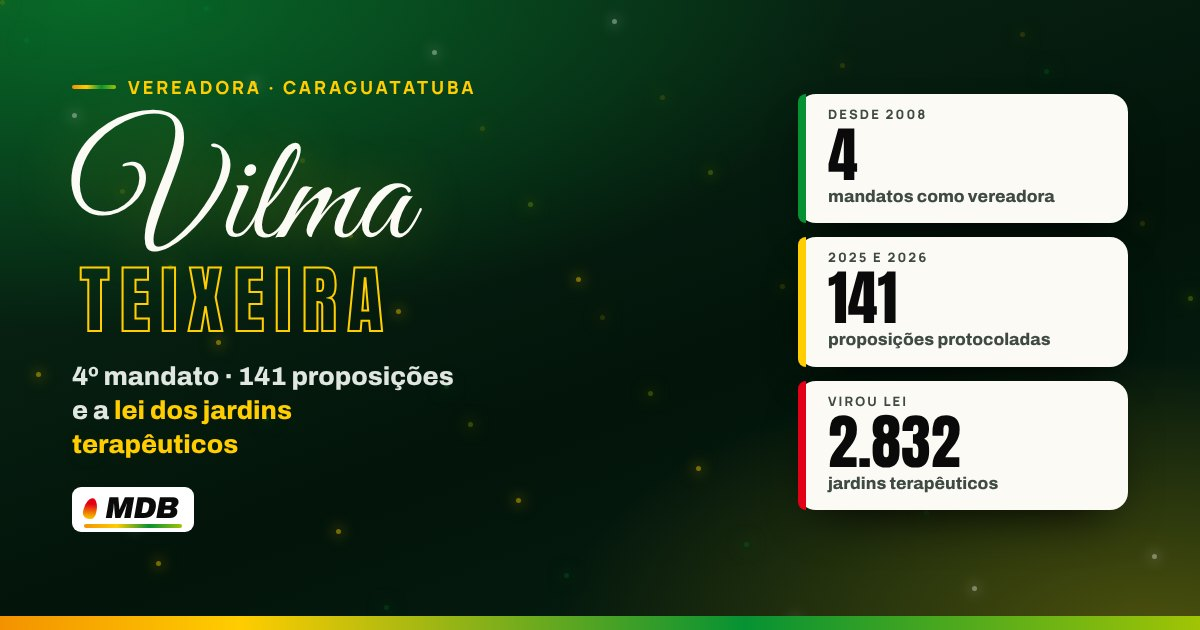
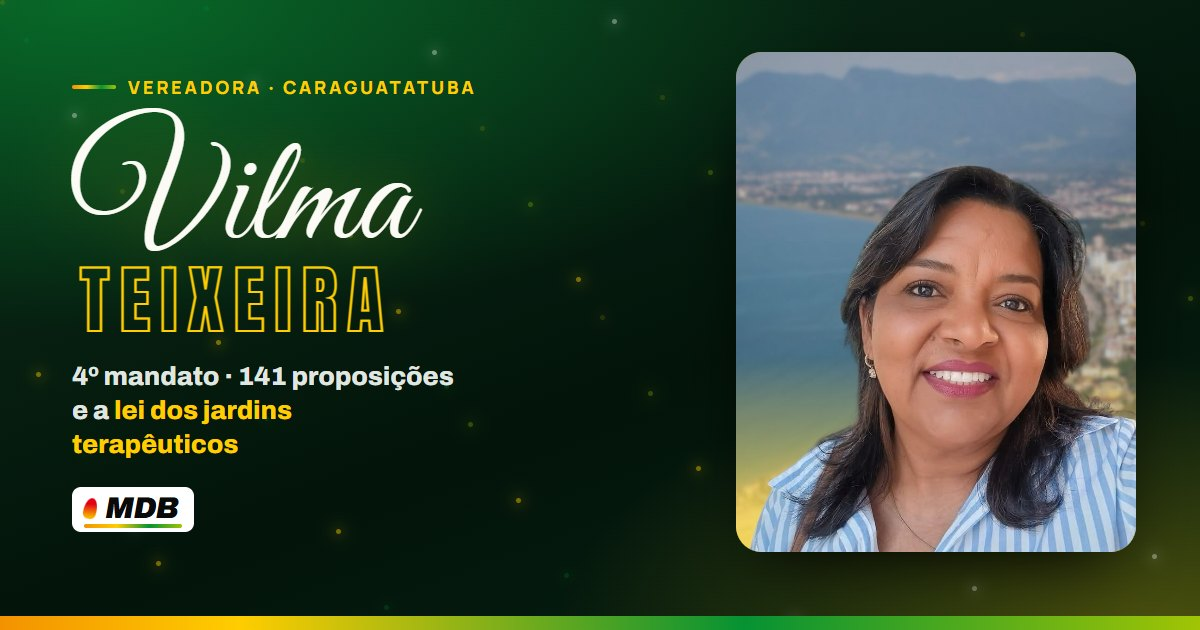
fotos: retrato da Vilma no herói, no cartão do Instagram, no formulário e no card de compartilhamento
- fotos/vilma-retrato.jpg vem de um post do perfil dela (@vereadoravilma),
  por decisão do Guilherme em 13/11/2026; origem anotada em fotos/LEIA-ME.md.
- No celular e no tablet a foto do herói agora aparece, abaixo do texto.
- og.jpg refeito com a foto. Avatar decorativo marcado como aria-hidden.

diff --git a/assets/css/secoes.css b/assets/css/secoes.css
@@ -77,6 +77,9 @@
 /* a foto: recorte sobre um arco com a faixa do MDB */
 .heroi__figura{position:relative;display:none;justify-self:end;width:100%;max-width:500px}
 @media(min-width:1000px){.heroi__figura{display:grid;place-items:end center}}
+/* Celular e tablet: a foto dela entra abaixo do texto. Antes o herói ficava
+   sem rosto justamente na tela em que mais gente chega (13/11/2026). */
+@media(max-width:999px){.heroi__figura{display:grid;place-items:center;justify-self:center;max-width:250px;margin:26px auto 0}}
 .heroi__aura{
   position:absolute;left:50%;top:6%;transform:translateX(-50%);
   width:108%;aspect-ratio:1;border-radius:50%;

diff --git a/assets/js/nucleo.js b/assets/js/nucleo.js
@@ -191,7 +191,9 @@
         document.querySelectorAll('.perfil__foto').forEach(el => {
           if (el.querySelector('img')) return;
           const img = new Image();
+          // decorativa: o nome dela está escrito ao lado, no próprio cartão
           img.alt = '';
+          img.setAttribute('aria-hidden', 'true');
           img.decoding = 'async';
           img.src = src;
           img.className = f.recorte ? 'perfil__img perfil__img--recorte' : 'perfil__img';

diff --git a/fotos/LEIA-ME.md b/fotos/LEIA-ME.md
@@ -16,4 +16,14 @@ Depois de pôr a foto da Vilma, rode `npm run og` para o card de compartilhament
 usar a foto dela.
 
 Nunca: foto do site da Câmara (tem o brasão do município atrás), foto de outro
-político, foto baixada do Instagram (entra pelo embed oficial, não por cópia).
+político, arte de campanha de outra candidatura.
+
+**Foto vinda do Instagram dela:** até 13/11/2026 a regra era "só pelo embed
+oficial, nunca por cópia". O Guilherme mudou isso nesse dia: pode copiar foto do
+perfil **dela** (@vereadoravilma) quando não houver arquivo melhor. Continua
+valendo: só foto em que ela aparece sozinha — nada de terceiros, criança,
+outro político ou arte da Câmara — e a origem fica anotada abaixo.
+
+| Arquivo | Origem |
+|---|---|
+| `vilma-retrato.jpg` | post dela, instagram.com/p/DEWANHZOpTa/ (1080×1080), copiado em 13/11/2026 |
